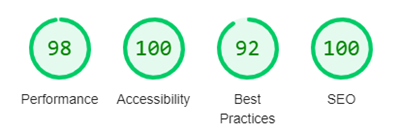
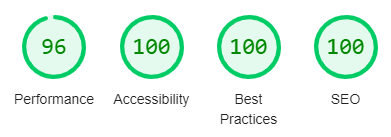
404 lighthouse added

diff --git a/404.html b/404.html
@@ -5,6 +5,11 @@
     <meta charset="UTF-8">
     <meta http-equiv="X-UA-Compatible" content="IE=edge">
     <meta name="viewport" content="width=device-width, initial-scale=1.0">
+    <!-- Meta tags for search engines -->
+    <meta name="description"
+        content="Escape Soy Wax Candles & Gifts, a lancashire based buisness, specialising in handmade soy wax candles, diffusers, gifts and interactive workshops.">
+    <meta name="keywords"
+        content="escape, soy, handmade, candles, soy candles, wax melts, burners, diffusers, lancashire, interactive workshops, activities">
 
     <!-- Title -->
     <title>Escape Soy Wax Candles & Gifts</title>

diff --git a/README.md b/README.md
@@ -146,6 +146,10 @@ I have run the webpage through Lighthouse on developer tools, the results are sh
 
 ![Alt text](assets/readme-imgs/image5.png)
 
+* 404 Page
+
+![Alt text](assets/readme-imgs/image19.png)
+
 ### Colour Scheme
 
 These are the colours I chose for the theme, I think the pink and beige compliment each other whilst the black text used for the font stands out.
